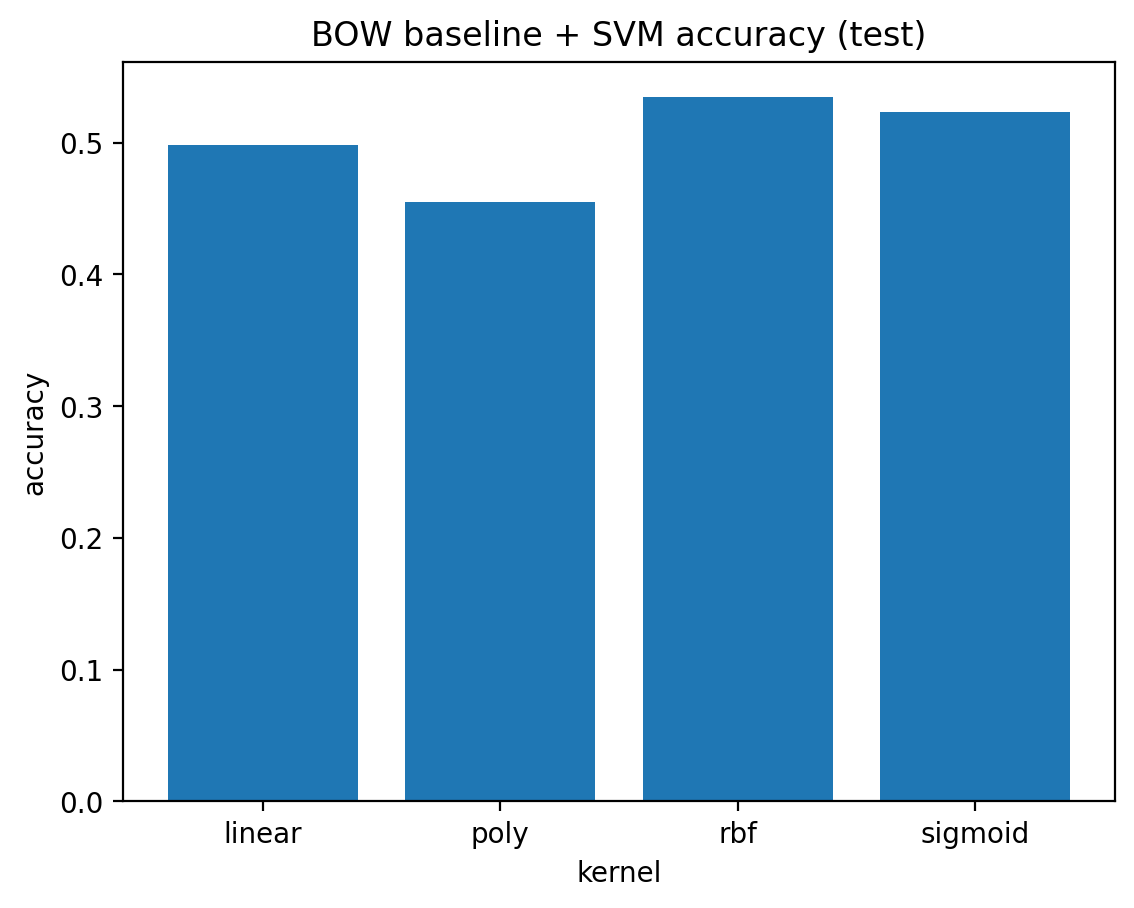
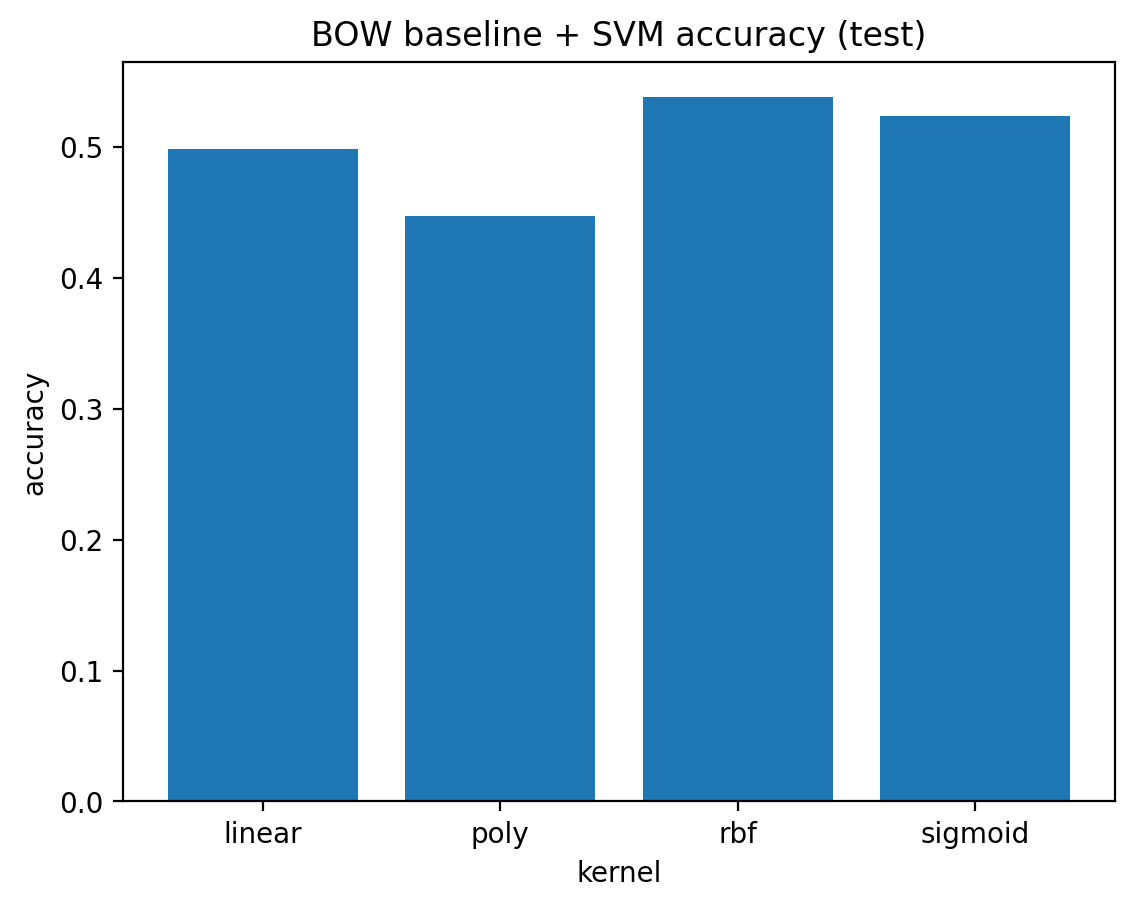
更新

diff --git a/run_experiments_and_plot.py b/run_experiments_and_plot.py
@@ -37,34 +37,44 @@ from nltk.stem import PorterStemmer
 def load_rte_tsv(path: Path):
     """
     Robust TSV loader that does NOT assume a header.
+    Handles extra TABs inside sentence fields by splitting label from the right.
     Format: index<TAB>sentence1<TAB>sentence2<TAB>label
     """
     rows = []
-    skipped = 0
+    bad = []
     with path.open("r", encoding="utf-8") as f:
-        for line in f:
+        for ln, line in enumerate(f, start=1):
             line = line.rstrip("\n")
             if not line.strip():
                 continue
-            parts = line.split("\t", 3)
-            if len(parts) != 4:
-                skipped += 1
+
+            # 先从最右边切出 label，避免句子里出现额外 tab 把 label 搞坏
+            try:
+                head, lab = line.rsplit("\t", 1)
+                idx, s1, s2 = head.split("\t", 2)
+            except ValueError:
+                bad.append((ln, line))
                 continue
-            idx, s1, s2, lab = parts
-            lab = lab.strip()
+
+            lab = lab.strip().lower()
 
             # skip header-like line safely (if exists)
-            if idx.strip().lower() == "index" or lab.lower() == "label":
+            if idx.strip().lower() == "index" or lab == "label":
                 continue
 
             if lab not in ("entailment", "not_entailment"):
-                skipped += 1
+                bad.append((ln, line))
                 continue
+
             rows.append((idx, s1, s2, lab))
 
-    if skipped:
-        print(f"[WARN] Skipped {skipped} malformed lines in {path}")
+    if bad:
+        print(f"[WARN] {path}: {len(bad)} malformed lines. Example:")
+        for ln, txt in bad[:5]:
+            print(f"  line {ln}: {txt[:120]}")
+
     return rows
+
 
 
 def y_from_label(lab: str) -> int:
@@ -156,14 +166,18 @@ KEEP_PREFIX = ("NN", "VB", "JJ", "RB")
 STEMMER = PorterStemmer()
 
 
+NEG_KEEP = {"no", "not", "n't", "never"}
+
 def preprocess_words(sentence: str):
-    # tokenization
     tokens = word_tokenize(sentence)
-    # POS tagging
     tagged = nltk.pos_tag(tokens)
-    # filter: nouns/verbs/adjectives/adverbs
-    kept = [w.lower() for (w, t) in tagged if t.startswith(KEEP_PREFIX)]
-    # stemming
+
+    kept = [
+        w.lower()
+        for (w, t) in tagged
+        if t.startswith(KEEP_PREFIX) or w.lower() in NEG_KEEP
+    ]
+
     stems = [STEMMER.stem(w) for w in kept]
     return stems
 
@@ -289,14 +303,13 @@ def main():
     train_pairs = load_rte_tsv(Path(args.train))
     test_pairs = load_rte_tsv(Path(args.test))
     assert len(train_pairs) == 2490, f"train size mismatch: {len(train_pairs)}"
-    assert len(test_pairs) == 280, f"test size mismatch: {len(test_pairs)}"
+    assert len(test_pairs) == 277, f"test size mismatch: {len(test_pairs)}"
     # dataset sanity check
     train_labels = Counter([p[3] for p in train_pairs])
     test_labels = Counter([p[3] for p in test_pairs])
     print(f"Train size: {len(train_pairs)}  label dist: {dict(train_labels)}")
     print(f"Test  size: {len(test_pairs)}  label dist: {dict(test_labels)}")
-    print(f"Train size: {len(train_pairs)}  label dist: {dict(train_labels)}")
-    print(f"Test  size: {len(test_pairs)}  label dist: {dict(test_labels)}")
+
 
     kernels = ["rbf", "linear", "poly", "sigmoid"]
     results = []
@@ -310,6 +323,7 @@ def main():
         X_train, y_train = build_sbert_pair_vectors(train_pairs, model, mode=mode)
         X_test, y_test = build_sbert_pair_vectors(test_pairs, model, mode=mode)
         for k in kernels:
+            print(f"[DEBUG] SBERT {mode}: X_train={X_train.shape} X_test={X_test.shape}")
             acc, fit_sec, pred = train_eval_svm(X_train, y_train, X_test, y_test, kernel=k)
             print(f"SBERT mode={mode:6s} kernel={k:7s} acc={acc:.4f} fit_sec={fit_sec:.2f}")
             results.append({
@@ -334,6 +348,7 @@ def main():
     ensure_nltk_resources()
     vocab, all_feat_lists = build_bow_dictionary(train_pairs, test_pairs)
     train_feats = all_feat_lists[: len(train_pairs)]
+    print(f"[DEBUG] BOW vocab size: {len(vocab)}")
     test_feats = all_feat_lists[len(train_pairs):]
     Xtr, ytr = vectorize_from_vocab(train_pairs, vocab, train_feats)
     Xte, yte = vectorize_from_vocab(test_pairs, vocab, test_feats)

diff --git a/README.md b/README.md
@@ -1,3 +1,3 @@
 # Minor-research-sbert-rte
-pip install -r requirements_rte.txt
+pip install -r requirements.txt
 python run_experiments_and_plot.py --train rte_train.txt --test rte_test.txt --out_dir outputs
